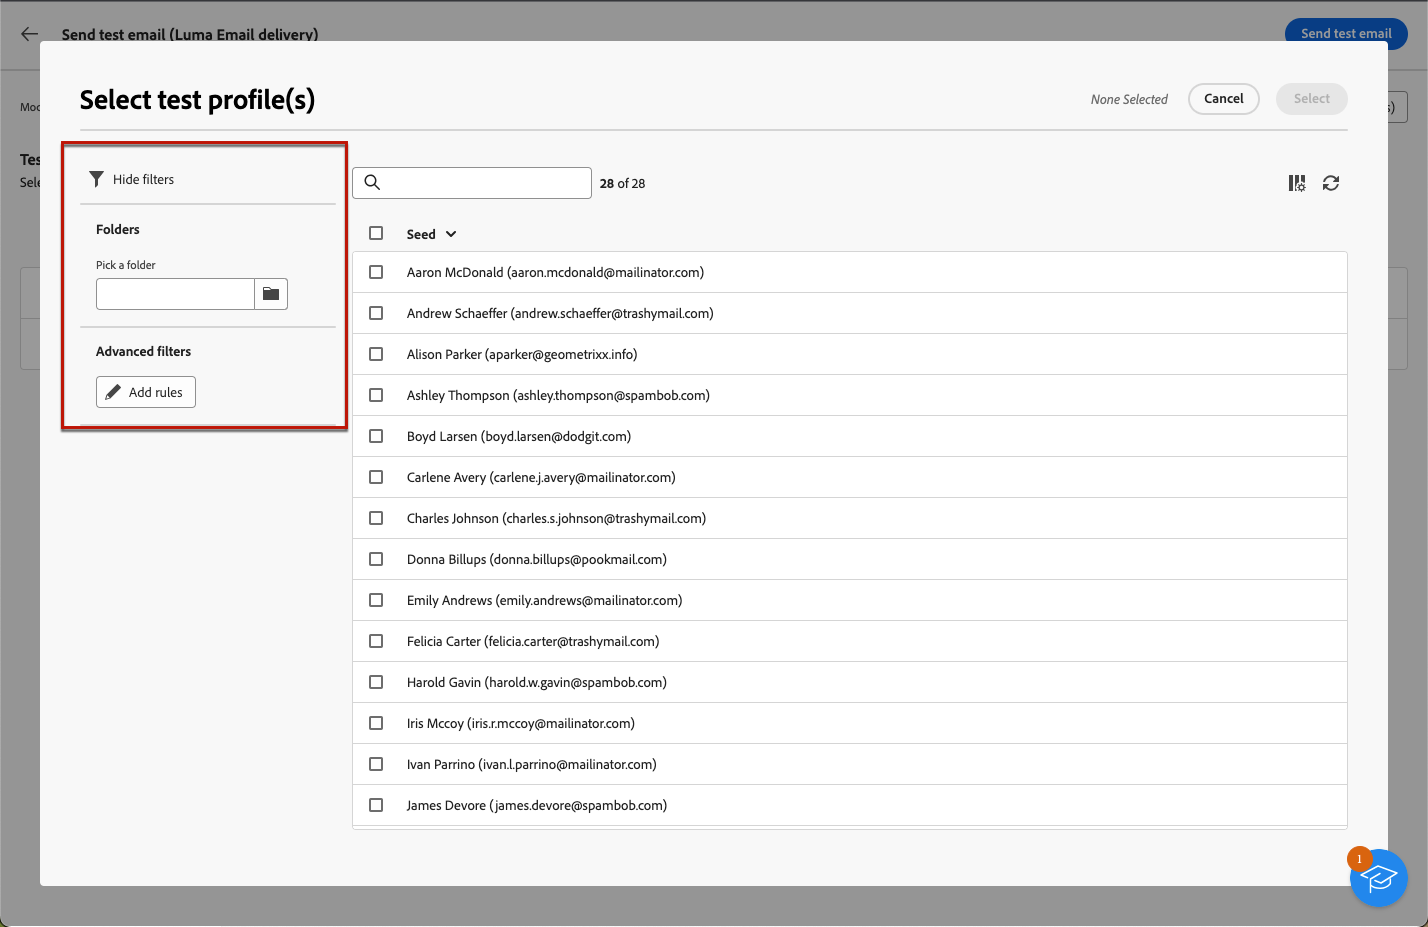
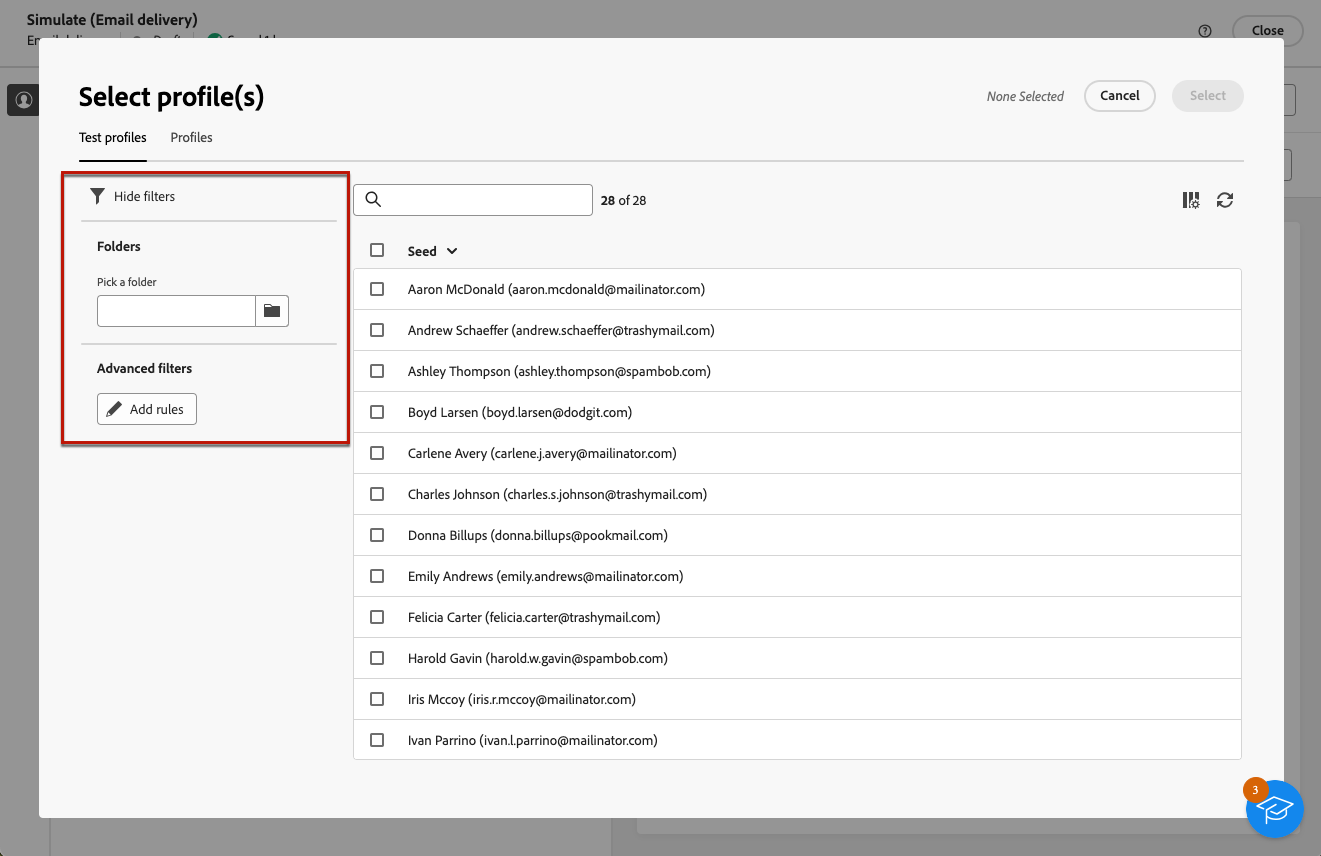
preview & test updates

diff --git a/help/v8/preview-test/test-deliveries.md b/help/v8/preview-test/test-deliveries.md
@@ -5,16 +5,16 @@ description: Learn how to define and send test deliveries
 exl-id: b2677579-c95d-443d-b207-466af364c208
 badge: label="Limited Availability"
 ---
-# Send proofs {#send-test-deliveries}
+# Send test deliveries {#send-test-deliveries}
 
 >[!CONTEXTUALHELP]
 >id="acw_email_preview_mode"
 >title="Preview mode"
 >abstract="Preview and test the message by including the test population to the main target."
 
-Once your message content has been defined, you can preview and test it by sending proofs to test profiles. If you inserted personalized content, you can check how this content is displayed in the message, using test profile data.
+Once your message content has been defined, you can preview and test it by sending test deliveries to test profiles. If you inserted personalized content, you can check how this content is displayed in the message, using test profile data.
 
-To detect possible errors in the message content or personalization settings, send proofs to test profiles before sending it to the target audience. A proof should be sent each time a change is made, to validate the latest content. Sending test deliveries (previously known as 'proofs') is an important step in validating your campaign and identifying potential issues. The proof recipients can check various elements such as links, opt-out links, images, or mirror pages, as well as detect any errors in the rendering, content, personalization settings and delivery configuration.
+To detect possible errors in the message content or personalization settings, send test deliveries to test profiles before sending it to the target audience. A test delivery should be sent each time a change is made, to validate the latest content. Sending test deliveries (also known as 'proofs') is an important step in validating your campaign and identifying potential issues. The test delivery recipients can check various elements such as links, opt-out links, images, or mirror pages, as well as detect any errors in the rendering, content, personalization settings and delivery configuration.
 
 ## Simulate content with test recipients {#simulate-content-test-deliveries}
 
@@ -23,23 +23,23 @@ To detect possible errors in the message content or personalization settings, se
 >title="Test population"
 >abstract="Select a test population mode."
 
-Before sending a test, make sure you define a target audience for you delivery. [Learn more](../audience/about-recipients.md)
+Before sending a test, make sure you define a target audience for you delivery. [Learn more](../audience/add-audience.md)
 
 To start testing your message content:
 
 1. Edit the content of your delivery.
 1. Click the **[!UICONTROL Simulate content]** button. 
-1. Click the **[!UICONTROL Test]** button to send proofs.
+1. Click the **[!UICONTROL Test]** button to send test deliveries.
 
     ![](assets/simulate-test-button-email.png)
 
 1. Select your test recipients.
 
-    Depending on the message channel, proofs can be sent to the following types of recipients: 
+    Depending on the message channel, test deliveries can be sent to the following types of recipients: 
 
     * For SMS and emails, you can use [test profiles](#test-profiles), which are specific additional recipients in the database. [Learn more](../audience/test-profiles.md)
         
-    * For SMS and emails, you can also use the [substitution from main target](#substitution-profiles) mode, which sends the proofs to email test address or phone number, and use personalization data of an existing profile. This allows you to experience the message as the recipients would, giving you an accurate representation of the content that the profile will receive.
+    * For SMS and emails, you can also use the [substitution from main target](#substitution-profiles) mode, which sends the test deliveries to an email test address or phone number, and use personalization data of an existing profile. This allows you to experience the message as the recipients would, giving you an accurate representation of the content that the profile will receive.
 
     * For push messages, you can use [subscribers](#subscribers), which are fictitious subscribers added to the database. They are created in the [!DNL Campaign] console. Learn more in [Campaign v8 (client console) documentation](https://experienceleague.adobe.com/docs/campaign/campaign-v8/audience/add-profiles/test-profiles.html){target="_blank"}
 
@@ -69,7 +69,7 @@ To start testing your message content:
 
 Test profiles are seed addresses, which are additional recipients in the database. They can be created from the **[!UICONTROL Customer management]** > **[!UICONTROL Profiles]** menu. [Learn more](../audience/test-profiles.md#create-test-profiles)
 
-The steps to send proofs to seed addresses are detailed below. 
+The steps to send test deliveries to seed addresses are detailed below. 
 
 1. From the content of your delivery, click the **[!UICONTROL Simulate content]** button, and the **[!UICONTROL Test]** button.
 
@@ -87,9 +87,7 @@ The steps to send proofs to seed addresses are detailed below.
 
     ![](assets/simulate-test-profile-filter.png)
 
-    For example, you can define a rule to find all test profiles whith the **[!UICONTROL Prospect]** status. [Learn more on advanced filters](../get-started/list-filters.md#adv-attributes)
-
-    ![](assets/simulate-test-profile-filter-ex.png)
+    For example, you can define a rule to find all test profiles whith the **[!UICONTROL Prospect]** status. Learn how to add rules using the [query modeler](../query/query-modeler-overview.md).
 
 1. To also send the final message to the recipients of the test delivery, select the **[!UICONTROL Include test population in the main target]** option.
 
@@ -99,7 +97,7 @@ The steps to send proofs to seed addresses are detailed below.
 
 ## Substitute profile data {#substitution-profiles}
 
-Use profile substitution to send proofs to a specific email address or phone number, while displaying data from an existing profile of the [!DNL Adobe Campaign] database. This mode can only be selected if the audience of the delivery has been defined.
+Use profile substitution to send test deliveries to a specific email address or phone number, while displaying data from an existing profile of the [!DNL Adobe Campaign] database. This mode can only be selected if the audience of the delivery has been defined.
 
 To substitute profile data from the main target, follow the steps below:
 
@@ -166,7 +164,7 @@ Once done, you can prepare and send your delivery to the main target. Learn how 
 * [Send your push notification](../push/send-push.md#send-push)
 * [Send your SMS delivery](../sms/send-sms.md#send-sms)
 
-## Access sent test deliveries {#access-proofs}
+## Access sent test deliveries {#access-test-deliveries}
 
 Once the test deliveries have been sent, you can access dedicated logs from the **[!UICONTROL View test log]** button.
 
@@ -174,6 +172,6 @@ These logs allow you to access all the tests sent for the selected delivery, and
 
 ![](assets/simulate-test-log.png)
 
-You can also access sent tests from the [deliveries list](../msg/gs-messages.md), like any delivery.
+You can also access sent tests from the [delivery list](../msg/gs-messages.md), like any delivery.
 
 ![](assets/simulate-deliveries-list.png)

diff --git a/help/v8/preview-test/preview-content.md b/help/v8/preview-test/preview-content.md
@@ -3,7 +3,7 @@ audience: end-user
 title: Preview delivery content
 description: Learn how to preview your delivery content with Campaign Web UI
 exl-id: 663a8395-c5b7-4427-bfdd-055230f9bc05
-badge: label="Beta" 
+badge: label="Limited Availability"
 ---
 
 # Preview delivery content {#preview-content} 
@@ -12,9 +12,7 @@ Use the [!DNL Campaign] content simulation capability to preview the content of 
 
 To preview the content of your delivery, follow the steps below.
 
-1. Browse to the edit content screen of your delivery.
-
-    <!--email [Edit content](../content/edit-content.md) screen or to the [Email Designer](../content/get-started-email-designer.md).-->
+1. Browse to the edit content screen of your delivery or to the [Email Designer](../content/get-started-email-designer.md).
 
 1. Click the **[!UICONTROL Simulate content]** button.
 
@@ -26,17 +24,21 @@ To preview the content of your delivery, follow the steps below.
 
     * **[!UICONTROL Add subscriber(s)]** for previewing push notifications
 
-1. You can combine test profiles and profiles to preview your email or SMS message. 
+1. You can combine test profiles and profiles to preview your email or SMS message.
 
     * The **[!UICONTROL Test profiles]** tab lists all seed addresses, which are additional and fictitious recipients in the database.
+
+        ![](assets/simulate-select-profiles.png)
     
         >[!NOTE]
         >
-        >Test profiles can be created in the [!DNL Campaign] console into the **[!UICONTROL Resources]** > **[!UICONTROL Campaign Management]** > **[!UICONTROL Seed addresses]** folder. Learn more in [Campaign v8 (client console) documentation](https://experienceleague.adobe.com/docs/campaign/campaign-v8/audience/add-profiles/test-profiles.html){target="_blank"}.
+        >Test profiles can be created from the **[!UICONTROL Customer management]** > **[!UICONTROL Profiles]** menu. [Learn more](../audience/test-profiles.md#create-test-profiles)
 
-    * The **[!UICONTROL Profiles]** tab lists all the recipients stored into the **[!UICONTROL Profiles and Targets]** folder from the [!DNL Campaign] console. Learn more in [Campaign v8 (client console) documentation](https://experienceleague.adobe.com/docs/campaign/campaign-v8/audience/view-profiles.html){target="_blank"}.
-
-    ![](assets/simulate-select-profiles.png)
+    * The **[!UICONTROL Profiles]** tab lists all the recipients stored into the **[!UICONTROL Profiles and Targets]** folder from the [!DNL Campaign] console. Learn more in [Campaign v8 (client console) documentation](https://experienceleague.adobe.com/docs/campaign/campaign-v8/audience/view-profiles.html){target="_blank"}. 
+    
+        >[!NOTE]
+        >
+        >You can also view and manage profiles from the corresponding tab in the Campaign web UI. [Learn more](../audience/about-recipients.md)
 
 1. Click **[!UICONTROL Select]** to confirm your selection.
 
@@ -50,7 +52,7 @@ To preview the content of your delivery, follow the steps below.
 
 1. From the **[!UICONTROL Simulate]** screen you can also:
     * Send test deliveries to specific recipients for validation - [Learn more](test-deliveries.md)
-    * Access the logs of the sent test deliveries - [Learn more](test-deliveries.md#access-proofs)
+    * Access the logs of the sent test deliveries - [Learn more](test-deliveries.md#access-test-deliveries)
     * For email only, check the message content rendering in popular email clients - [Learn more](email-rendering.md)
 
 

diff --git a/help/v8/preview-test/preview-test.md b/help/v8/preview-test/preview-test.md
@@ -3,7 +3,7 @@ audience: end-user
 title: About delivery preview and test
 description: Learn how to preview and test deliveries
 exl-id: ce10c89d-d9b8-4529-84cb-f58f8c71c733
-badge: label="Beta" 
+badge: label="Limited Availability"
 ---
 # About preview and test {#about-preview-test}
 
@@ -24,9 +24,7 @@ To do this, [!DNL Adobe Campaign] allows you to:
 * [Send test deliveries](test-deliveries.md) (proofs) to specific recipients or subscribers for testing and validation
 * [Check the email rendering](email-rendering.md) in popular desktop, mobile and web-based clients
 
-These actions can be performed using the **[!UICONTROL Simulate content]** button, which is accessible from the edit content screen of your delivery.
-
-<!-- from the [Edit content](../content/edit-content.md) screen or from the [Email Designer](../content/get-started-email-designer.md).-->
+These actions can be performed using the **[!UICONTROL Simulate content]** button, which is accessible from the edit content screen of your delivery - or from the [Email Designer](../content/get-started-email-designer.md).
 
 ![](assets/simulate-button.png)
 

diff --git a/help/v8/audience/file-audience.md b/help/v8/audience/file-audience.md
@@ -103,4 +103,4 @@ Campaign Web allows you to preview and send test emails when using an audience u
 
     ![](assets/file-upload-test.png)
 
-1. You can monitor the sending of the test email using the View test email log button at any time. [Learn more on test emails monitoring](../preview-test/test-deliveries.md#access-sent-test-deliveries-access-proofs)
+1. You can monitor the sending of the test email using the **[!UICONTROL View test email log]** button at any time. [Learn more on test emails monitoring](../preview-test/test-deliveries.md#access-test-deliveries)

diff --git a/help/v8/msg/delivery-template.md b/help/v8/msg/delivery-template.md
@@ -187,7 +187,7 @@ You can test the rendering of any delivery template, whether created from scratc
 
 >[!NOTE]
 >
->You cannot use email rendering or send proofs in a delivery template.
+>You cannot use email rendering or send tests in a delivery template.
 
 * [Learn more on previewing email content](../preview-test/preview-content.md)
 

diff --git a/help/v8/preview-test/email-rendering.md b/help/v8/preview-test/email-rendering.md
@@ -3,7 +3,7 @@ audience: end-user
 title: Test email rendering
 description: Learn how to test your email rendering in Campaign Web UI
 exl-id: 5cdbce8b-3969-470d-8019-1edc58433146
-badge: label="Beta" 
+badge: label="Limited Availability"
 ---
 
 # Test the email rendering {#email-rendering}
